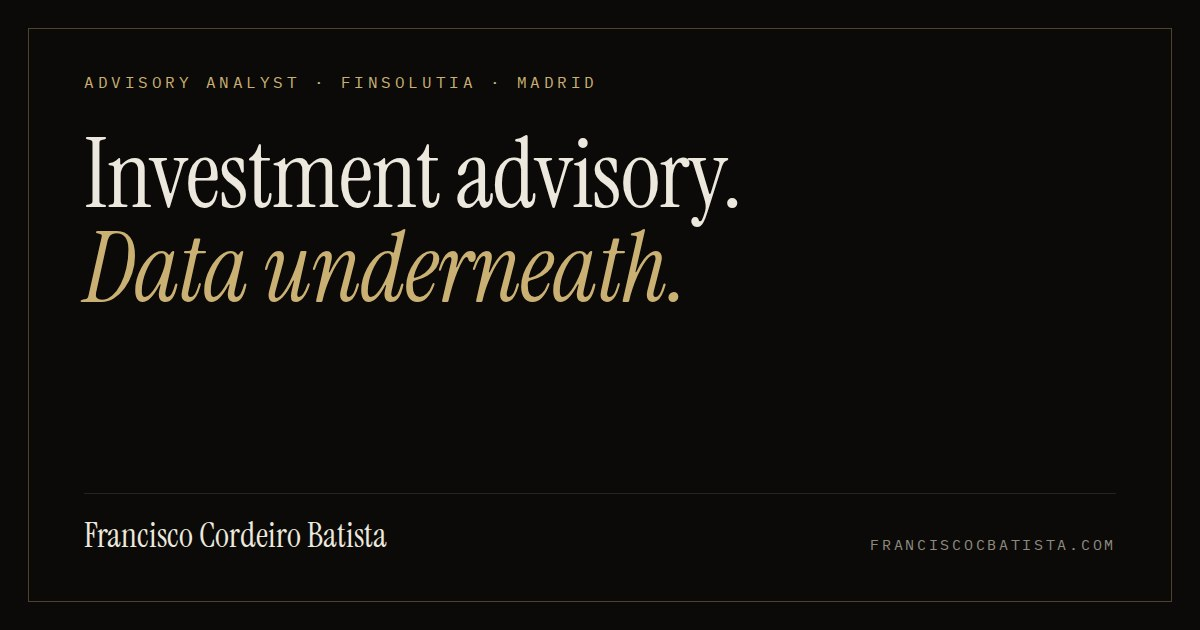
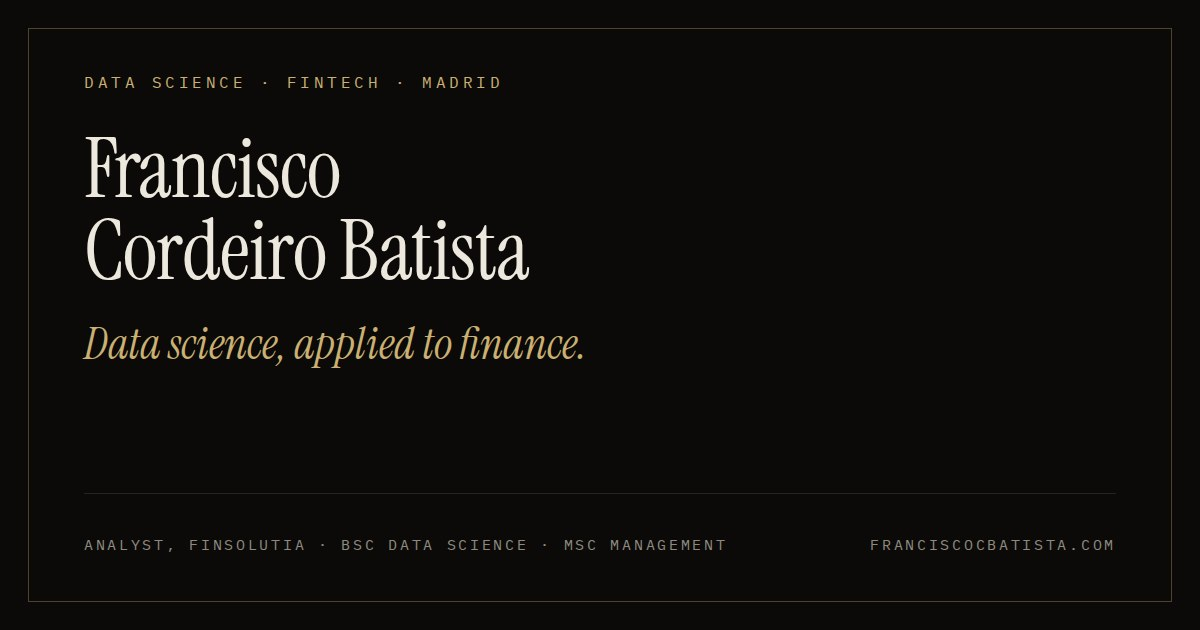
Make the hero read like a CV, not a service offer
- Hero: name as the headline, "Data science, applied to finance." as the
  tagline, a career summary in place of the first-person "I advise…"
  pitch, and a CV-style fact sheet (role, city, degrees, focus,
  languages, membership) where the portrait was.
- Remove the portrait and its preload; drop public/profile.jpg.
- Finsolutia summary reworded as a team role; footer tagline, page
  title, meta description, Open Graph, JSON-LD and the OG image now lead
  with data science and fintech.
- Same change in EN, PT-PT and ES.

Claude-Session: https://claude.ai/code/session_0178ABanWfobFb3C2iSy47Sy

diff --git a/index.html b/index.html
@@ -10,14 +10,13 @@
     <!-- Performance -->
     <link rel="preconnect" href="https://fonts.googleapis.com">
     <link rel="preconnect" href="https://fonts.gstatic.com" crossorigin>
-    <link rel="preload" as="image" href="/profile.jpg">
     <link href="https://fonts.googleapis.com/css2?family=Instrument+Serif:ital@0;1&family=IBM+Plex+Sans:wght@400;500;600&family=IBM+Plex+Mono:wght@400;500&display=swap" rel="stylesheet" media="print" onload="this.media='all'">
     <noscript><link href="https://fonts.googleapis.com/css2?family=Instrument+Serif:ital@0;1&family=IBM+Plex+Sans:wght@400;500;600&family=IBM+Plex+Mono:wght@400;500&display=swap" rel="stylesheet"></noscript>
 
     <!-- Primary meta -->
-    <title>Francisco Cordeiro Batista | Investment Advisory Analyst, Madrid</title>
-    <meta name="title" content="Francisco Cordeiro Batista | Investment Advisory Analyst, Madrid" />
-    <meta name="description" content="Advisory Analyst at Finsolutia, Madrid, advising private-equity funds and financial institutions on NPL and REO portfolio acquisitions. Data-science background: Python, SQL, econometrics." />
+    <title>Francisco Cordeiro Batista | Data Science & Fintech, Madrid</title>
+    <meta name="title" content="Francisco Cordeiro Batista | Data Science & Fintech, Madrid" />
+    <meta name="description" content="Francisco Cordeiro Batista, data scientist working in fintech. Analyst at Finsolutia in Madrid. BSc Data Science at NOVA IMS, Master in Management at UC3M. Python, SQL, Power BI, econometrics." />
     <meta name="author" content="Francisco Cordeiro Batista" />
     <meta name="robots" content="index, follow" />
     <link rel="canonical" href="https://franciscocbatista.com" />
@@ -26,10 +25,10 @@
     <meta property="og:type" content="website" />
     <meta property="og:url" content="https://franciscocbatista.com" />
     <meta property="og:site_name" content="Francisco Cordeiro Batista" />
-    <meta property="og:title" content="Francisco Cordeiro Batista | Investment advisory. Data underneath." />
-    <meta property="og:description" content="Advisory Analyst at Finsolutia, Madrid, advising private-equity funds and financial institutions on NPL and REO portfolio acquisitions. Data-science background: Python, SQL, econometrics." />
+    <meta property="og:title" content="Francisco Cordeiro Batista | Data science, applied to finance." />
+    <meta property="og:description" content="Data scientist working in fintech. Analyst at Finsolutia in Madrid. BSc Data Science at NOVA IMS, Master in Management at UC3M." />
     <meta property="og:image" content="https://franciscocbatista.com/og-image.jpg" />
-    <meta property="og:image:alt" content="Francisco Cordeiro Batista, Advisory Analyst, Madrid" />
+    <meta property="og:image:alt" content="Francisco Cordeiro Batista, data science and fintech, Madrid" />
     <meta property="og:image:width" content="1200" />
     <meta property="og:image:height" content="630" />
     <meta property="og:locale" content="en_US" />
@@ -39,10 +38,10 @@
     <!-- Twitter -->
     <meta name="twitter:card" content="summary_large_image" />
     <meta name="twitter:url" content="https://franciscocbatista.com" />
-    <meta name="twitter:title" content="Francisco Cordeiro Batista | Investment advisory. Data underneath." />
-    <meta name="twitter:description" content="Advisory Analyst at Finsolutia, Madrid, advising private-equity funds and financial institutions on NPL and REO portfolio acquisitions." />
+    <meta name="twitter:title" content="Francisco Cordeiro Batista | Data science, applied to finance." />
+    <meta name="twitter:description" content="Data scientist working in fintech. Analyst at Finsolutia in Madrid. BSc Data Science at NOVA IMS, Master in Management at UC3M." />
     <meta name="twitter:image" content="https://franciscocbatista.com/og-image.jpg" />
-    <meta name="twitter:image:alt" content="Francisco Cordeiro Batista, Advisory Analyst, Madrid" />
+    <meta name="twitter:image:alt" content="Francisco Cordeiro Batista, data science and fintech, Madrid" />
 
     <!-- Structured data -->
     <script type="application/ld+json">
@@ -51,10 +50,10 @@
       "@type": "Person",
       "name": "Francisco Cordeiro Batista",
       "url": "https://franciscocbatista.com",
-      "image": "https://franciscocbatista.com/profile.jpg",
-      "jobTitle": "Advisory Analyst",
+      "image": "https://franciscocbatista.com/og-image.jpg",
+      "jobTitle": "Analyst",
       "worksFor": { "@type": "Organization", "name": "Finsolutia" },
-      "description": "Advisory Analyst for private-equity NPL and REO markets, combining data science with finance.",
+      "description": "Data scientist working in fintech. Analyst at Finsolutia in Madrid; BSc Data Science (NOVA IMS), Master in Management (UC3M).",
       "address": { "@type": "PostalAddress", "addressLocality": "Madrid", "addressCountry": "ES" },
       "alumniOf": [
         { "@type": "EducationalOrganization", "name": "NOVA Information Management School", "sameAs": "https://www.novaims.unl.pt/" },
@@ -63,18 +62,17 @@
       "memberOf": { "@type": "Organization", "name": "CFA Society Spain" },
       "knowsLanguage": ["pt", "es", "en"],
       "knowsAbout": [
-        "Private Equity",
-        "Non-Performing Loans",
-        "Real Estate Owned Portfolios",
-        "Due Diligence",
-        "DCF Valuation",
-        "Risk/Return Modelling",
-        "Financial Statement Analysis",
-        "Econometrics",
         "Data Science",
+        "Fintech",
+        "Econometrics",
+        "Machine Learning",
         "Python",
         "SQL",
-        "Power BI"
+        "Power BI",
+        "Financial Statement Analysis",
+        "DCF Valuation",
+        "Non-Performing Loans",
+        "Real Estate Owned Portfolios"
       ],
       "sameAs": [
         "https://www.linkedin.com/in/kikobatistaa/",

diff --git a/src/components/Hero.tsx b/src/components/Hero.tsx
@@ -21,14 +21,6 @@ const Hero = () => {
         { opacity: 0, y: 18 },
         { opacity: 1, y: 0, duration: 0.8, stagger: 0.09, ease: "power3.out", delay: 0.1 }
       );
-      const portrait = el.querySelector("[data-portrait]");
-      if (portrait) {
-        gsap.fromTo(
-          portrait,
-          { clipPath: "inset(0 0 100% 0)" },
-          { clipPath: "inset(0 0 0% 0)", duration: 1.1, ease: "power3.inOut", delay: 0.25 }
-        );
-      }
     });
     return () => mm.revert();
   }, []);
@@ -41,10 +33,13 @@ const Hero = () => {
             {t.eyebrow}
           </p>
           <h1 data-hero className="text-display-xl">
-            <span className="block">{t.headline[0]}</span>
-            <span className="block italic text-gold">{t.headline[1]}</span>
+            <span className="block">{t.name[0]}</span>
+            <span className="block">{t.name[1]}</span>
           </h1>
-          <p data-hero className="mt-8 max-w-[52ch] text-lg leading-relaxed text-muted-foreground md:text-xl">
+          <p data-hero className="mt-6 font-display text-display-md italic text-gold">
+            {t.tagline}
+          </p>
+          <p data-hero className="mt-8 max-w-[56ch] text-lg leading-relaxed text-muted-foreground">
             {t.lead}
           </p>
           <div data-hero className="mt-10 flex flex-wrap items-center gap-4">
@@ -81,26 +76,20 @@ const Hero = () => {
           </div>
         </div>
 
-        <div className="col-span-12 lg:col-span-4 lg:col-start-9">
-          <figure className="relative mx-auto max-w-[300px] sm:max-w-[340px] lg:max-w-none">
-            <div data-portrait className="relative aspect-[4/5] overflow-hidden border border-border bg-card">
-              <img
-                src="/profile.jpg"
-                alt={t.portraitAlt}
-                width={1024}
-                height={1280}
-                loading="eager"
-                decoding="async"
-                className="h-full w-full object-cover grayscale contrast-[1.05]"
-              />
-            </div>
-            <span
-              aria-hidden
-              className="pointer-events-none absolute inset-0 translate-x-3 translate-y-3 border border-gold/50"
-            />
-            <figcaption className="eyebrow mt-7">{t.portraitCaption}</figcaption>
-          </figure>
-        </div>
+        {/* Fact sheet, CV style. */}
+        <aside data-hero className="col-span-12 lg:col-span-4 lg:col-start-9" aria-label={t.factsTitle}>
+          <p className="eyebrow mb-4">{t.factsTitle}</p>
+          <dl className="border-t border-border">
+            {t.facts.map((fact) => (
+              <div key={fact.label} className="grid grid-cols-[110px_1fr] gap-4 border-b border-border py-4">
+                <dt className="font-mono text-[11px] uppercase leading-relaxed tracking-[0.18em] text-muted-foreground">
+                  {fact.label}
+                </dt>
+                <dd className="text-[15px] leading-relaxed text-foreground/90">{fact.value}</dd>
+              </div>
+            ))}
+          </dl>
+        </aside>
       </div>
     </section>
   );

diff --git a/src/locales/es.ts b/src/locales/es.ts
@@ -14,13 +14,21 @@ export const es: Translation = {
     home: "Volver arriba",
   },
   hero: {
-    eyebrow: "Advisory Analyst · Finsolutia · Madrid",
-    headline: ["Asesoramiento de inversión.", "Datos detrás."],
-    lead: "En Finsolutia asesoro a fondos de private equity e instituciones financieras en la adquisición de carteras NPL y REO: due diligence, benchmarks de valoración, apoyo en la negociación. Los modelos que hay detrás están hechos en Python, por mí.",
+    eyebrow: "Ciencia de datos · Fintech · Madrid",
+    name: ["Francisco", "Cordeiro Batista"],
+    tagline: "Ciencia de datos, aplicada a las finanzas.",
+    lead: "Científico de datos de formación, trabajando en fintech. Actualmente analista en Finsolutia, en Madrid, en el lado de investor advisory de los mercados NPL y REO. Antes, BI y analítica para una plataforma de inteligencia para vendedores de Amazon, y análisis de ventas en NetJets Europe.",
+    factsTitle: "Perfil",
+    facts: [
+      { label: "Ahora", value: "Analista, Finsolutia" },
+      { label: "Ubicación", value: "Madrid" },
+      { label: "Formación", value: "Grado en Ciencia de Datos, NOVA IMS · Máster en Management, UC3M" },
+      { label: "Enfoque", value: "Ciencia de datos · Fintech · Econometría" },
+      { label: "Idiomas", value: "Portugués · Español · Inglés" },
+      { label: "Miembro", value: "CFA Society Spain" },
+    ],
     ctaWork: "Trabajo seleccionado",
     ctaHello: "Escríbeme",
-    portraitAlt: "Francisco Cordeiro Batista",
-    portraitCaption: "Madrid, 2026",
     linkedin: "LinkedIn",
     github: "GitHub",
   },
@@ -45,7 +53,7 @@ export const es: Translation = {
         role: "Advisory Analyst",
         period: "ago 2026 – actualidad",
         location: "Madrid",
-        summary: "Asesoramiento a fondos de private equity e instituciones financieras en la adquisición de carteras NPL y REO.",
+        summary: "Analista en el equipo de investor advisory, cubriendo adquisiciones de carteras NPL y REO por fondos de private equity e instituciones financieras.",
         bullets: [
           "Due diligence financiera, inmobiliaria y legal en adquisiciones de carteras",
           "Benchmarks de valoración propios: DCF y modelización de riesgo/rentabilidad",
@@ -289,7 +297,7 @@ export const es: Translation = {
     connectionError: "Problema de conexión. Inténtalo de nuevo en un momento.",
   },
   footer: {
-    tagline: "Advisory Analyst, Finsolutia · Madrid",
+    tagline: "Ciencia de datos · Fintech · Madrid",
     linkedin: "LinkedIn",
     github: "GitHub",
     email: "Email",

diff --git a/src/locales/pt-pt.ts b/src/locales/pt-pt.ts
@@ -14,13 +14,21 @@ export const ptPT: Translation = {
     home: "Voltar ao topo",
   },
   hero: {
-    eyebrow: "Advisory Analyst · Finsolutia · Madrid",
-    headline: ["Assessoria de investimento.", "Dados por trás."],
-    lead: "Na Finsolutia, aconselho fundos de private equity e instituições financeiras na aquisição de carteiras NPL e REO: due diligence, benchmarks de valuation, apoio à negociação. Os modelos por trás são construídos em Python, por mim.",
+    eyebrow: "Ciência de dados · Fintech · Madrid",
+    name: ["Francisco", "Cordeiro Batista"],
+    tagline: "Ciência de dados, aplicada às finanças.",
+    lead: "Cientista de dados de formação, a trabalhar em fintech. Atualmente analista na Finsolutia, em Madrid, no lado de investor advisory dos mercados NPL e REO. Antes disso, BI e analytics para uma plataforma de inteligência para vendedores Amazon, e análise de vendas na NetJets Europe.",
+    factsTitle: "Perfil",
+    facts: [
+      { label: "Agora", value: "Analista, Finsolutia" },
+      { label: "Baseado em", value: "Madrid" },
+      { label: "Formação", value: "Licenciatura em Ciência de Dados, NOVA IMS · Mestrado em Gestão, UC3M" },
+      { label: "Foco", value: "Ciência de dados · Fintech · Econometria" },
+      { label: "Línguas", value: "Português · Espanhol · Inglês" },
+      { label: "Membro", value: "CFA Society Spain" },
+    ],
     ctaWork: "Trabalho selecionado",
     ctaHello: "Diga olá",
-    portraitAlt: "Francisco Cordeiro Batista",
-    portraitCaption: "Madrid, 2026",
     linkedin: "LinkedIn",
     github: "GitHub",
   },
@@ -45,7 +53,7 @@ export const ptPT: Translation = {
         role: "Advisory Analyst",
         period: "ago 2026 – presente",
         location: "Madrid",
-        summary: "Assessoria a fundos de private equity e instituições financeiras na aquisição de carteiras NPL e REO.",
+        summary: "Analista na equipa de investor advisory, a cobrir aquisições de carteiras NPL e REO por fundos de private equity e instituições financeiras.",
         bullets: [
           "Due diligence financeira, imobiliária e jurídica em aquisições de carteiras",
           "Benchmarks de valuation proprietários: DCF e modelação de risco/retorno",
@@ -289,7 +297,7 @@ export const ptPT: Translation = {
     connectionError: "Problema de ligação. Tente de novo daqui a pouco.",
   },
   footer: {
-    tagline: "Advisory Analyst, Finsolutia · Madrid",
+    tagline: "Ciência de dados · Fintech · Madrid",
     linkedin: "LinkedIn",
     github: "GitHub",
     email: "Email",

diff --git a/src/locales/en.ts b/src/locales/en.ts
@@ -21,13 +21,21 @@ export const en = {
     home: "Back to top",
   },
   hero: {
-    eyebrow: "Advisory Analyst · Finsolutia · Madrid",
-    headline: ["Investment advisory.", "Data underneath."],
-    lead: "I advise private-equity funds and financial institutions on NPL and REO portfolio acquisitions at Finsolutia: due diligence, valuation benchmarks, deal support. The models underneath are built in Python, by me.",
+    eyebrow: "Data science · Fintech · Madrid",
+    name: ["Francisco", "Cordeiro Batista"],
+    tagline: "Data science, applied to finance.",
+    lead: "Data scientist by training, working in fintech. Currently an analyst at Finsolutia in Madrid, on the investor advisory side of the NPL and REO markets. Before that, BI and analytics for an Amazon-seller intelligence platform, and sales analytics at NetJets Europe.",
+    factsTitle: "Profile",
+    facts: [
+      { label: "Now", value: "Analyst, Finsolutia" },
+      { label: "Based in", value: "Madrid" },
+      { label: "Education", value: "BSc Data Science, NOVA IMS · Master in Management, UC3M" },
+      { label: "Focus", value: "Data science · Fintech · Econometrics" },
+      { label: "Languages", value: "Portuguese · Spanish · English" },
+      { label: "Member", value: "CFA Society Spain" },
+    ],
     ctaWork: "Selected work",
     ctaHello: "Say hello",
-    portraitAlt: "Francisco Cordeiro Batista",
-    portraitCaption: "Madrid, 2026",
     linkedin: "LinkedIn",
     github: "GitHub",
   },
@@ -52,7 +60,7 @@ export const en = {
         role: "Advisory Analyst",
         period: "Aug 2026 – present",
         location: "Madrid",
-        summary: "Investor advisory for private-equity funds and financial institutions acquiring NPL and REO portfolios.",
+        summary: "Analyst on the investor advisory team, covering NPL and REO portfolio acquisitions by private-equity funds and financial institutions.",
         bullets: [
           "Financial, real-estate and legal due diligence on portfolio acquisitions",
           "Proprietary valuation benchmarks: DCF and risk/return modelling",
@@ -296,7 +304,7 @@ export const en = {
     connectionError: "Connection problem. Try again in a moment.",
   },
   footer: {
-    tagline: "Advisory Analyst, Finsolutia · Madrid",
+    tagline: "Data science · Fintech · Madrid",
     linkedin: "LinkedIn",
     github: "GitHub",
     email: "Email",

diff --git a/README.md b/README.md
@@ -1,6 +1,6 @@
 # franciscocbatista.com
 
-Personal site of Francisco Cordeiro Batista, Advisory Analyst at Finsolutia (Madrid). Dark editorial layout: selected work, experience, credentials, and a contact form.
+Personal site of Francisco Cordeiro Batista, data scientist working in fintech (Madrid). Dark editorial layout, CV-style: profile, selected work, experience, credentials, and a contact form.
 
 Live: [franciscocbatista.com](https://franciscocbatista.com)
 
@@ -31,7 +31,7 @@ npm run preview
 
 - Copy: `src/locales/*.ts`
 - Project reports and CV: `public/*.pdf`, referenced from `src/components/Projects.tsx` and `src/lib/links.ts`
-- Portrait and Open Graph image: `public/profile.jpg`, `public/og-image.jpg`
+- Open Graph image: `public/og-image.jpg`
 - SEO tags and structured data: `index.html`
 
 ## Deployment
